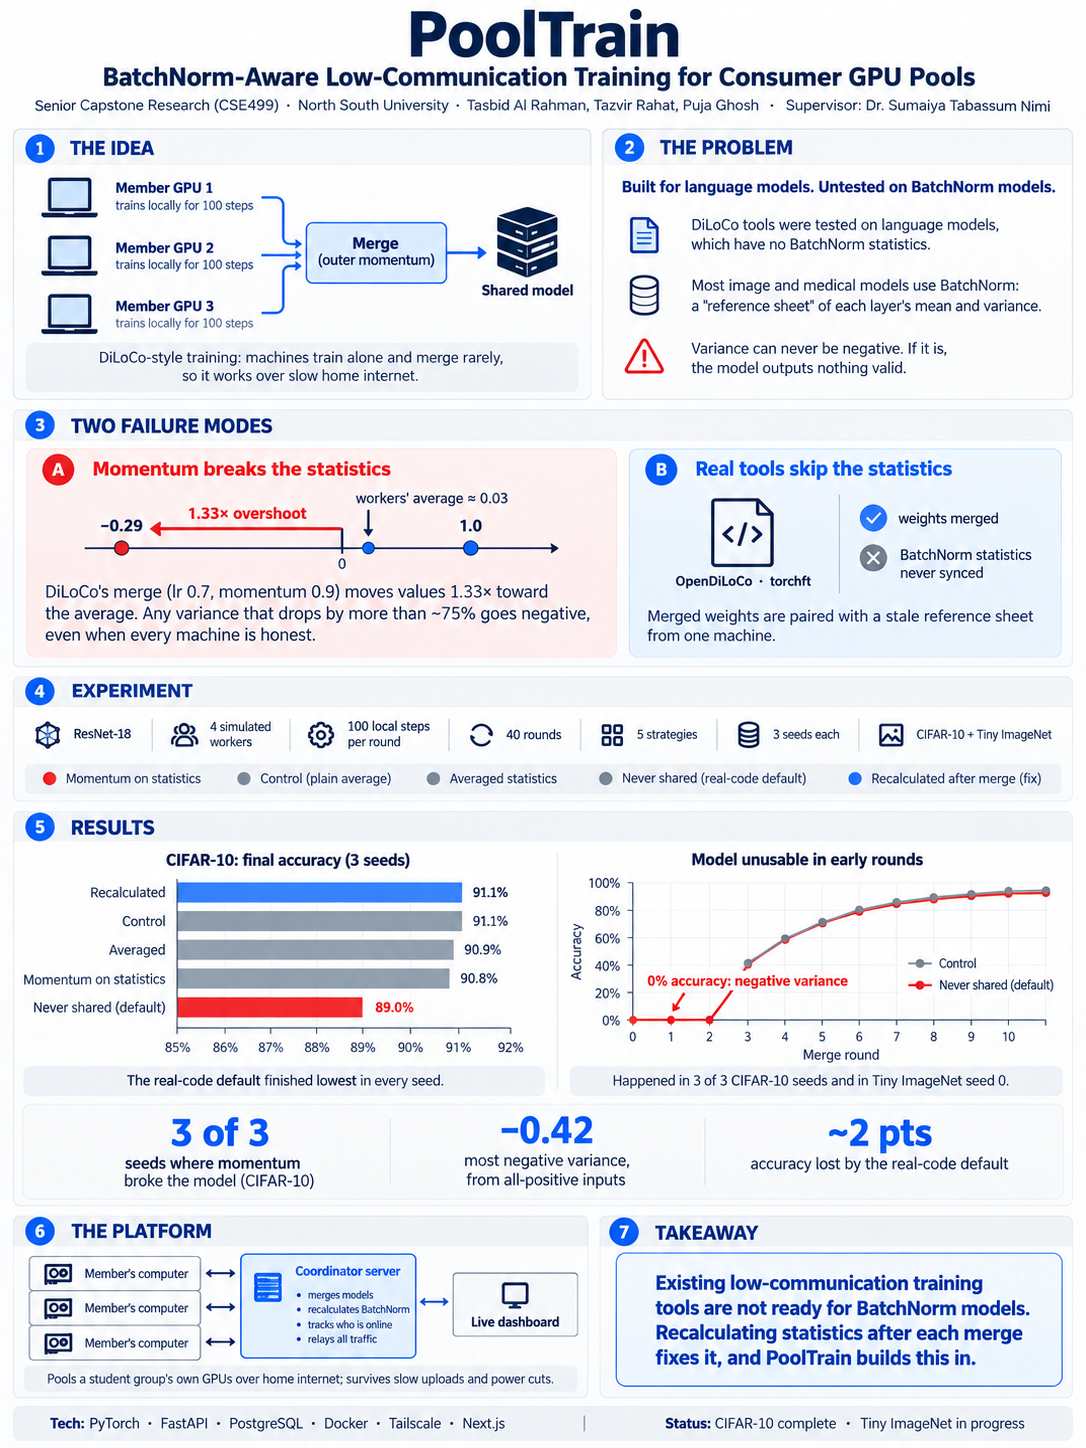
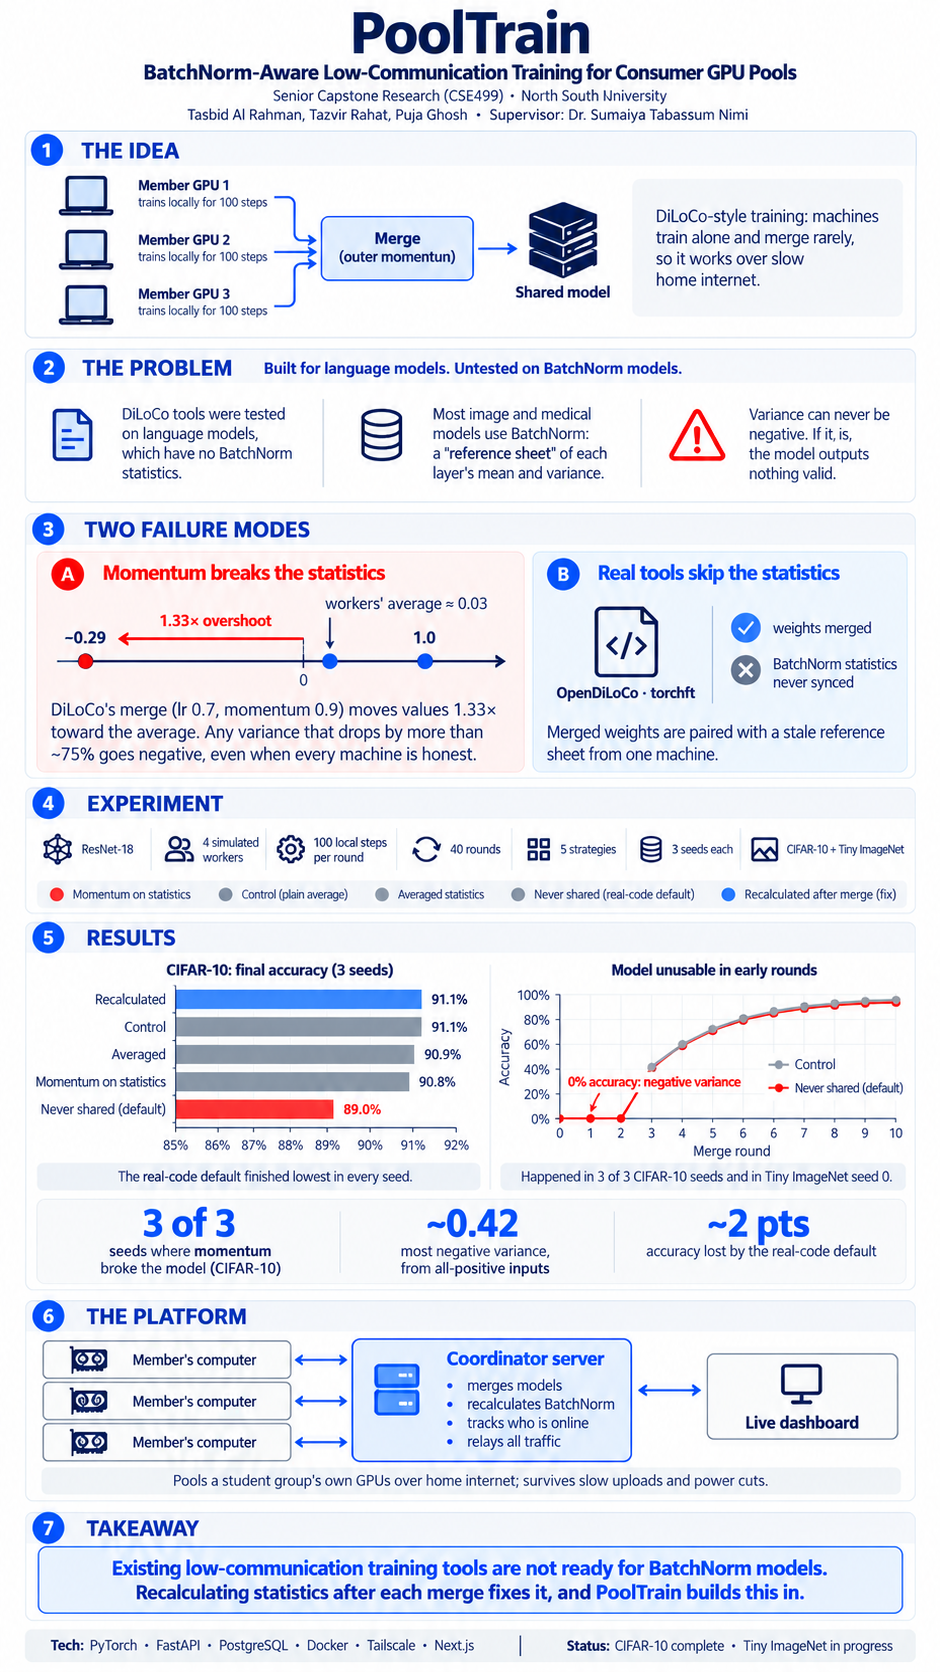
Update research posters and fit them to the card column

Changed region(s): [[0.0, 0.0, 0.9872, 0.9945], [0.9564, 0.9323, 0.9872, 0.9634]]

diff --git a/src/components/Research.tsx b/src/components/Research.tsx
@@ -84,12 +84,12 @@ const ProjectCard = ({ project, index }: { project: ResearchProject; index: numb
         </div>
 
         {project.poster && (
-          <div className="relative group overflow-hidden rounded-2xl cursor-zoom-in bg-black/30" onClick={() => setIsModalOpen(true)}>
+          <div className="relative group overflow-hidden rounded-2xl cursor-zoom-in bg-black/30 self-start" onClick={() => setIsModalOpen(true)}>
              <img 
                src={project.poster} 
                alt={project.title} 
                referrerPolicy="no-referrer"
-               className="w-full h-full max-h-[540px] object-contain transition-transform duration-700 group-hover:scale-105"
+               className="w-full h-auto block transition-transform duration-700 group-hover:scale-105"
                onError={(e) => {
                  (e.target as HTMLImageElement).src = index === 0 
                   ? "https://images.unsplash.com/photo-1639322537228-f710d846310a?auto=format&fit=crop&q=80&w=800" 
